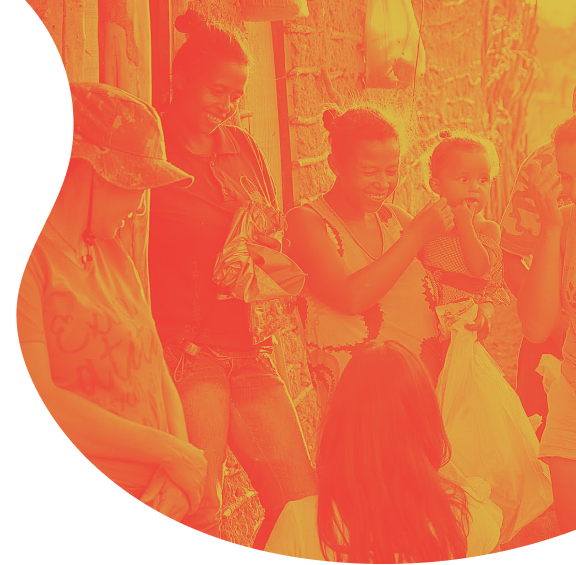
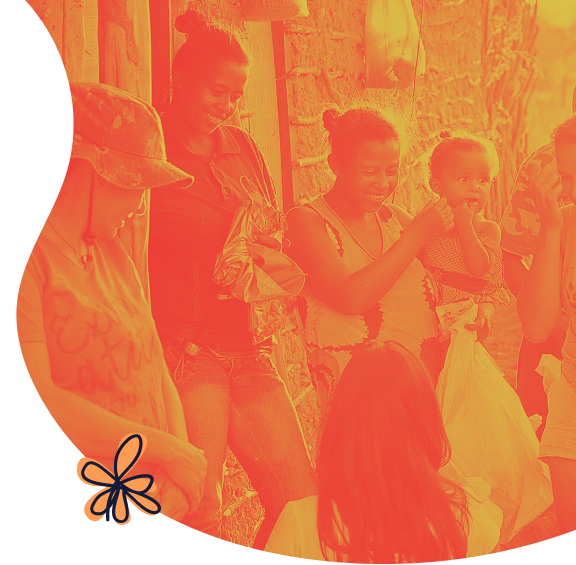
top section bg and flower ok

Changed region(s): [[0.125, 0.7522, 0.2812, 0.9327]]

diff --git a/style.css b/style.css
@@ -2,7 +2,10 @@
   --black: #323232;
   --green: #77c03d;
   --green-shadow: rgba(150, 249, 71, 0.35);
+  --grey: #e5e5e5;
   --white: white;
+
+  --color-bg: var(--grey);
 
   --text-4xs: 0.125rem;
   --text-3xs: 0.25rem;
@@ -17,6 +20,20 @@
   --text-4xl: 2.25rem;
   --text-5xl: 3rem;
   --text-6xl: 4rem;
+
+  --text-4xs-em: 0.125em;
+  --text-3xs-em: 0.25em;
+  --text-2xs-em: 0.5em;
+  --text-xs-em: 0.75em;
+  --text-sm-em: 0.875em;
+  --text-base-em: 1em;
+  --text-lg-em: 1.125em;
+  --text-xl-em: 1.25em;
+  --text-2xl-em: 1.5em;
+  --text-3xl-em: 1.875em;
+  --text-4xl-em: 2.25em;
+  --text-5xl-em: 3em;
+  --text-6xl-em: 4em;
 
   --spacer-0: 0;
   --spacer-1: 4px;
@@ -52,6 +69,7 @@ body {
   justify-content: center;
   /* max-width: var(--main-max-width); */
   color: var(--black);
+  background-color: var(--color-bg);
 }
 
 button:focus {
@@ -82,17 +100,20 @@ button.primary {
 }
 
 .top2 {
-  background-color: aliceblue;
+  /* background-color: aliceblue; */
+  /* background-image: url(assets/images/bg-vermelho.png); */
   max-width: var(--main-max-width);
   width: 100%;
   min-height: var(--main-min-height);
   height: 100vh;
+  max-height: 825px;
   display: grid;
   grid-template-columns: 20% 450px 1fr;
   /* grid-template-rows: 66px 1fr 180px 163px var(--button-height); */
-  grid-template-rows: 66px 1fr 180px 1fr 163px 1fr var(--button-height) 1fr;
+  grid-template-rows: 2fr 66px 3fr 180px 2fr 163px 2fr var(--button-height) 2fr;
   /* grid-template-rows: 10rem auto auto auto; */
   grid-template-areas:
+    ". . image"
     ". logo image"
     ". . image"
     ". title image"
@@ -105,22 +126,22 @@ button.primary {
 
 .top2 .logo {
   grid-area: logo;
-  background-color: antiquewhite;
+  /* background-color: antiquewhite; */
 }
 
 .top2 .title {
   grid-area: title;
-  background-color: aqua;
-  font-size: var(--text-4xl);
+  /* background-color: aqua; */
+  font-size: var(--text-4xl-em);
   font-weight: 300;
   /* background-color: antiquewhite; */
-  line-height: var(--text-6xl);
+  line-height: var(--text-5xl);
   margin: 0;
 }
 
 .top2 .description {
   grid-area: description;
-  background-color: aquamarine;
+  /* background-color: aquamarine; */
   margin: 0;
 }
 
@@ -176,20 +197,21 @@ button.primary {
 }
 
 .bg-image-top-right {
-  grid-area: image;
   width: 100%;
-  position: relative;
+  position: absolute;
   /* background-color: tomato; */
 }
 
 .bg-image-top-right .main-bg {
   /* width: 100%; */
+  position: absolute;
+  right: 0px;
+  max-width: 40vw;
 }
 .bg-image-top-right .flower {
-  /* width: 100%; */
   position: absolute;
-  left: 13%;
-  top: 70%;
+  right: 363px;
+  top: 455px;
 }
 
 .meals-title {

diff --git a/index.html b/index.html
@@ -11,8 +11,23 @@
     <link rel="stylesheet" href="style.css" />
   </head>
   <body>
+    <div class="bg-image-top-right">
+      <img
+        class="main-bg"
+        src="assets/images/bg-vermelho.jpg"
+        alt=""
+        srcset=""
+      />
+      <!-- <img
+        class="flower"
+        src="assets/images/flor-laranja.svg"
+        alt=""
+        srcset=""
+      /> -->
+    </div>
     <div class="top2">
-      <div class="logo">logo</div>
+      <img class="logo" src="assets/images/logo.svg" alt="" srcset="" />
+      <!-- <div class="logo">logo</div> -->
       <!-- <div class="title"></div> -->
       <h1 class="title">
         Colabore com o <br />Gretas
@@ -22,26 +37,21 @@
         >
       </h1>
       <!-- <div class="description"></div> -->
-      <p class="description">description</p>
-      <button class="read-more primary round">button</button>
+      <!-- <p class="description">description</p> -->
+      <p class="description">
+        Você pode transformar vidas com uma doação. Com o valor de uma refeição
+        - seja um cafezinho ou pensão completa - você pode multiplicar amor e
+        levar mais esperança aos moradoras da cidade de Ibimirim, no sertão de
+        Pernambuco. Escolha quanto você quer doar, apoie o Gretas e contribua de
+        forma simples e rápida com o projeto.
+      </p>
+      <button class="read-more primary round">Saiba mais sobre nós.</button>
+
       <!-- <img class="logo" src="assets/images/logo.svg" alt="" srcset="" />
       <h1 class="title">title</h1>
       <p class="description">description</p>
       <button class="read-more primary round">Saiba mais sobre nós.</button>
-      <div class="bg-image-top-right">
-        <img
-          class="main-bg"
-          src="assets/images/bg-vermelho.png"
-          alt=""
-          srcset=""
-        />
-        <img
-          class="flower"
-          src="assets/images/flor-laranja.svg"
-          alt=""
-          srcset=""
-        />
-      </div> -->
+     -->
     </div>
 
     <!-- <div class="top">
